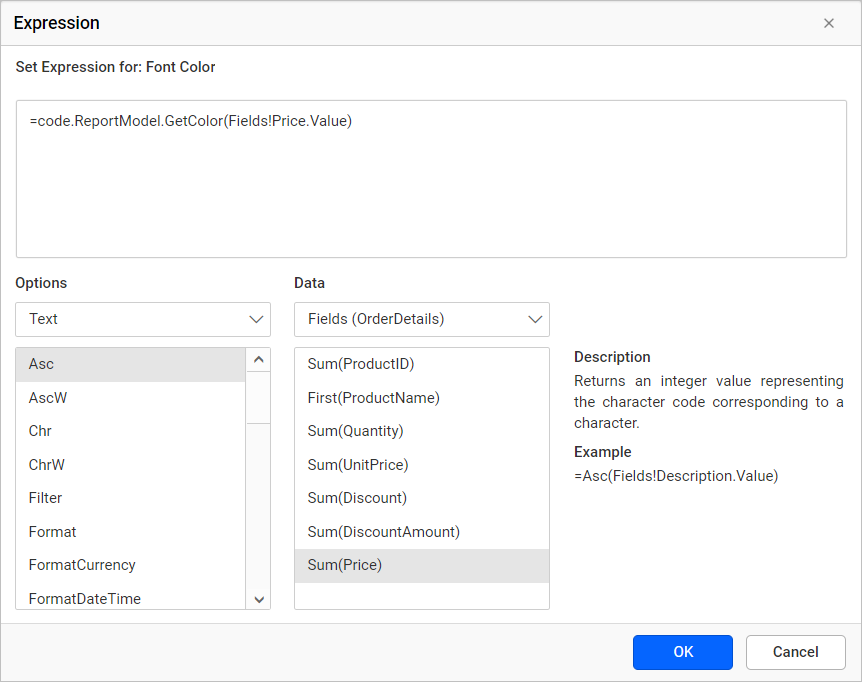
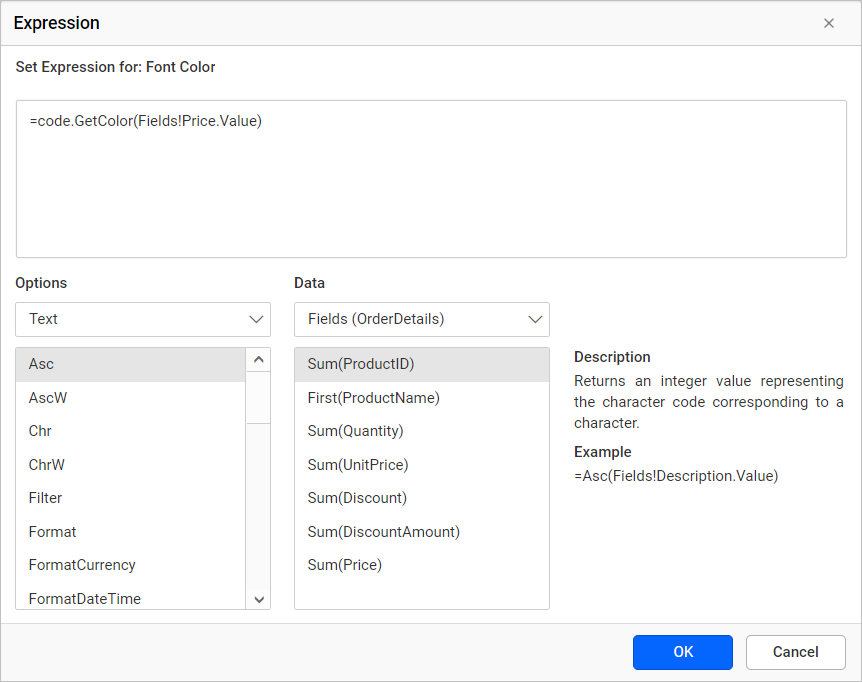
documentation(REPORT-321541): Improve the content, change image in code module documentation

Changed region(s): [[0.3318, 0.4927, 0.6636, 0.585], [0.3318, 0.8006, 0.6334, 0.8622], [0.0905, 0.154, 0.4223, 0.1848]]

diff --git a/docs/designer-guide/report-designer/compose-report/code-module.md b/docs/designer-guide/report-designer/compose-report/code-module.md
@@ -6,17 +6,17 @@ keywords: ejReportDesigner, reportdesigner, code, assemblies, class
 
 # Code Module
 
-Code Module is used to add a custom code or custom assemblies to a report. Code module allows to add references to custom code embedded in a report or generated with custom assemblies.
+The Code Module is used to add custom code or custom assemblies to a report. The Code Module allows you to add references to custom code embedded in a report or generated with custom assemblies.
 
 ## Add Custom Code to a report
 
-1. Click the outer grey surface report area and then click the **Properties** icon to open **Report Properties**.
+1. Click on the outer grey surface of the report area, and then click the **Properties** icon to open the **Report Properties**.
     ![open-properies](/static/assets/on-premise/images/report-designer/compose-report/unit-switcher/open-properties.png)
-2. The custom code option is listed under the `Code` category, click **Code...** to open Code Module dialog.
+2. The custom code option is listed under the `Code` category. Click **Code...** to open the Code Module dialog.
     ![report-properies](/static/assets/on-premise/images/report-designer/compose-report/unit-switcher/report-properties.png)
-3. In the code tab, type the codes in Visual Basic (VB) language.
+3. In the code tab, type the code in the Visual Basic (VB) language.
     ![Open code module](/static/assets/on-premise/images/report-designer/compose-report/code-module/open-code-module.png)
-4. The following code example demonstrates the custom function that returns the color string based on the given value range.
+4. The following code example demonstrates a custom function that returns the color string based on the given value range.
 
     ```basic
     Public Function GetColor(ByVal TotalSales As Decimal) As String
@@ -36,7 +36,7 @@ Code Module is used to add a custom code or custom assemblies to a report. Code 
 
     ![Enter custom code](/static/assets/on-premise/images/report-designer/compose-report/code-module/code-section.png)
 5. Click **OK**.
-6. Use the following expression, to call the custom code function in the report.
+6. Use the following expression to call the custom code function in the report.
     ![Call custom code function](/static/assets/on-premise/images/report-designer/compose-report/code-module/custom-code-expression.png)
 Refer [Expression](./../../compose-report/expressions/) section to learn more about handling expressions.
 7. To view the color changes based on the price range in a report, click `Preview`.
@@ -44,32 +44,32 @@ Refer [Expression](./../../compose-report/expressions/) section to learn more ab
 
 ## Add Assembly References
 
-To embed a custom assemblies in a report, create a simple visual studio class library project and define the required custom functions.
+To embed custom assemblies in a report, create a simple Visual Studio class library project and define the required custom functions.
 
 ### Create a custom assembly
 
-1. Create a visual studio class library. Go to **Installed > Visual C#**, and then select **Class Library (.Net Framework)** from the listed template, change the application name, and then click **OK**.
+1. Create a Visual Studio class library. Go to **Installed > Visual C#**, and then select **Class Library (.Net Framework)** from the listed templates. Change the application name, and then click **OK**.
 ![To create c sharp class library](/static/assets/on-premise/images/report-designer/compose-report/code-module/assembly-references.png)
 
-2. Open the class file, create a simple function as shown below.
+2. Open the class file and create a simple function as shown below.
 ![To create a simple function](/static/assets/on-premise/images/report-designer/compose-report/code-module/add-references.png)
 
-3. After defining the required functions, build the project. Now, the assembly`(.dll)` will be generated in the bin folder of the respective application.
+3. After defining the required functions, build the project. Now, the assembly `(.dll)` will be generated in the bin folder of the respective application.
 
-> Note: To embed the custom assembly into the report, the generated assembly must be installed in GAC or it must be available in reporting services `bin` location. We prefer to manually copy and paste the generated custom assembly into the following path **C:\Syncfusion\Report Server\ReportServer.Web\ReportService\bin**.
+> Note: To embed the custom assembly into the report, the generated assembly must be installed in GAC, or it must be available in the reporting services `bin` location. We prefer manually copying and pasting the generated custom assembly into the following path: **C:\Syncfusion\Report Server\ReportServer.Web\ReportService\bin**.
 
-### Adding a references to custom assembly
+### Adding References to Custom Assembly
 
 1. Switch to the **References** tab.
 ![Code module assembly references](/static/assets/on-premise/images/report-designer/compose-report/code-module/references-tab.png)
 
-2. To add a **Assembly** references, Click on the **Add** icon.
+2. To add an **Assembly** reference, Click on the **Add** icon.
 ![Add assemby references](/static/assets/on-premise/images/report-designer/compose-report/code-module/reference-add-icon.png)
 
 3. Specify the assembly name and click **OK**.
 ![Given assemby references name](/static/assets/on-premise/images/report-designer/compose-report/code-module/assembly-reference-name.png)
 
-## Add Class instances
+## Add Class Instances
 
 1. Switch to the **Classes** tab.
     ![Switch to class instance tab](/static/assets/on-premise/images/report-designer/compose-report/code-module/classinstance-tab.png)
